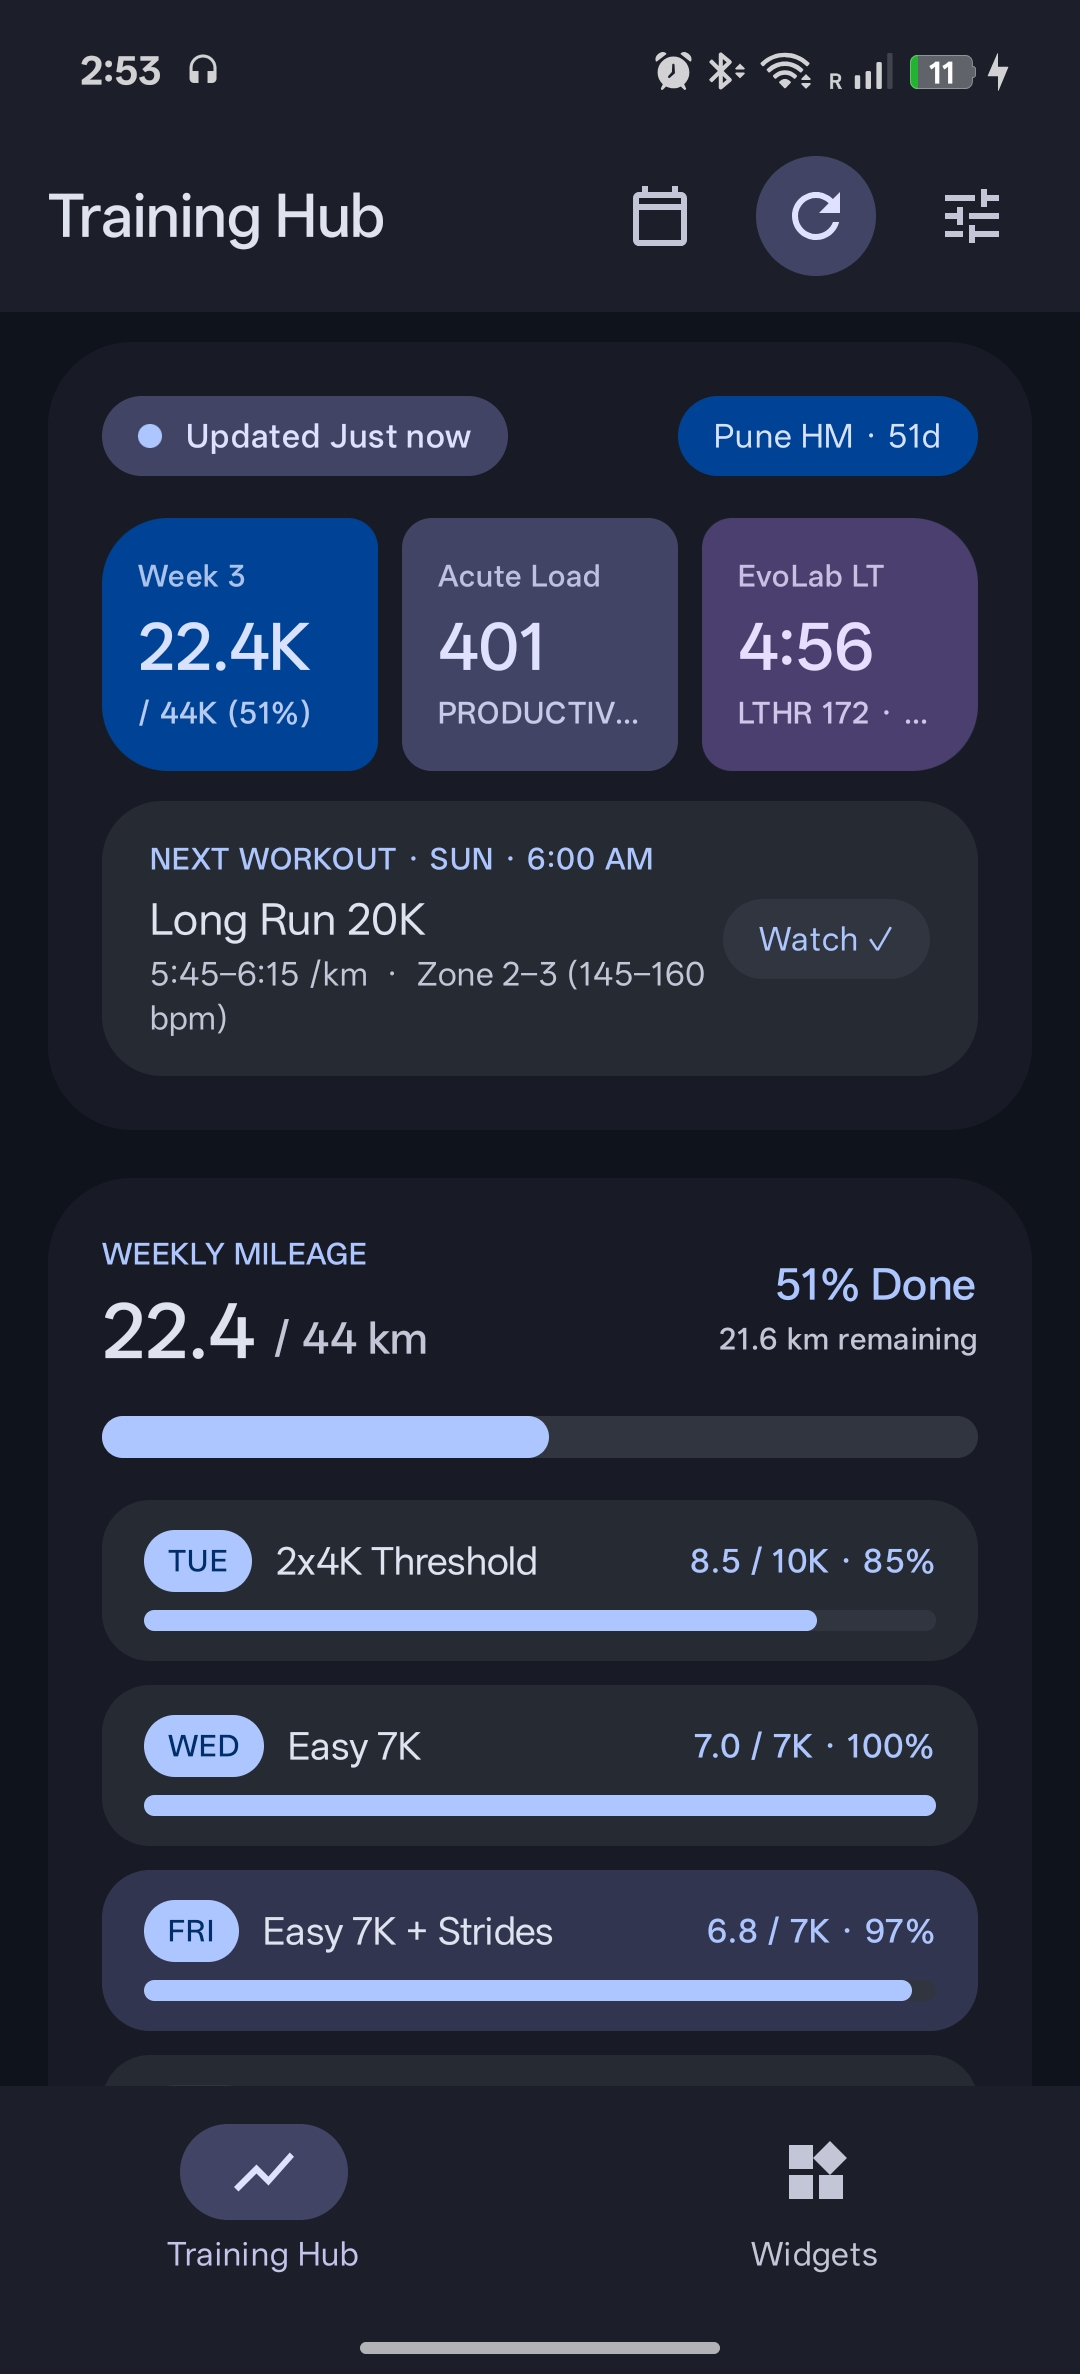
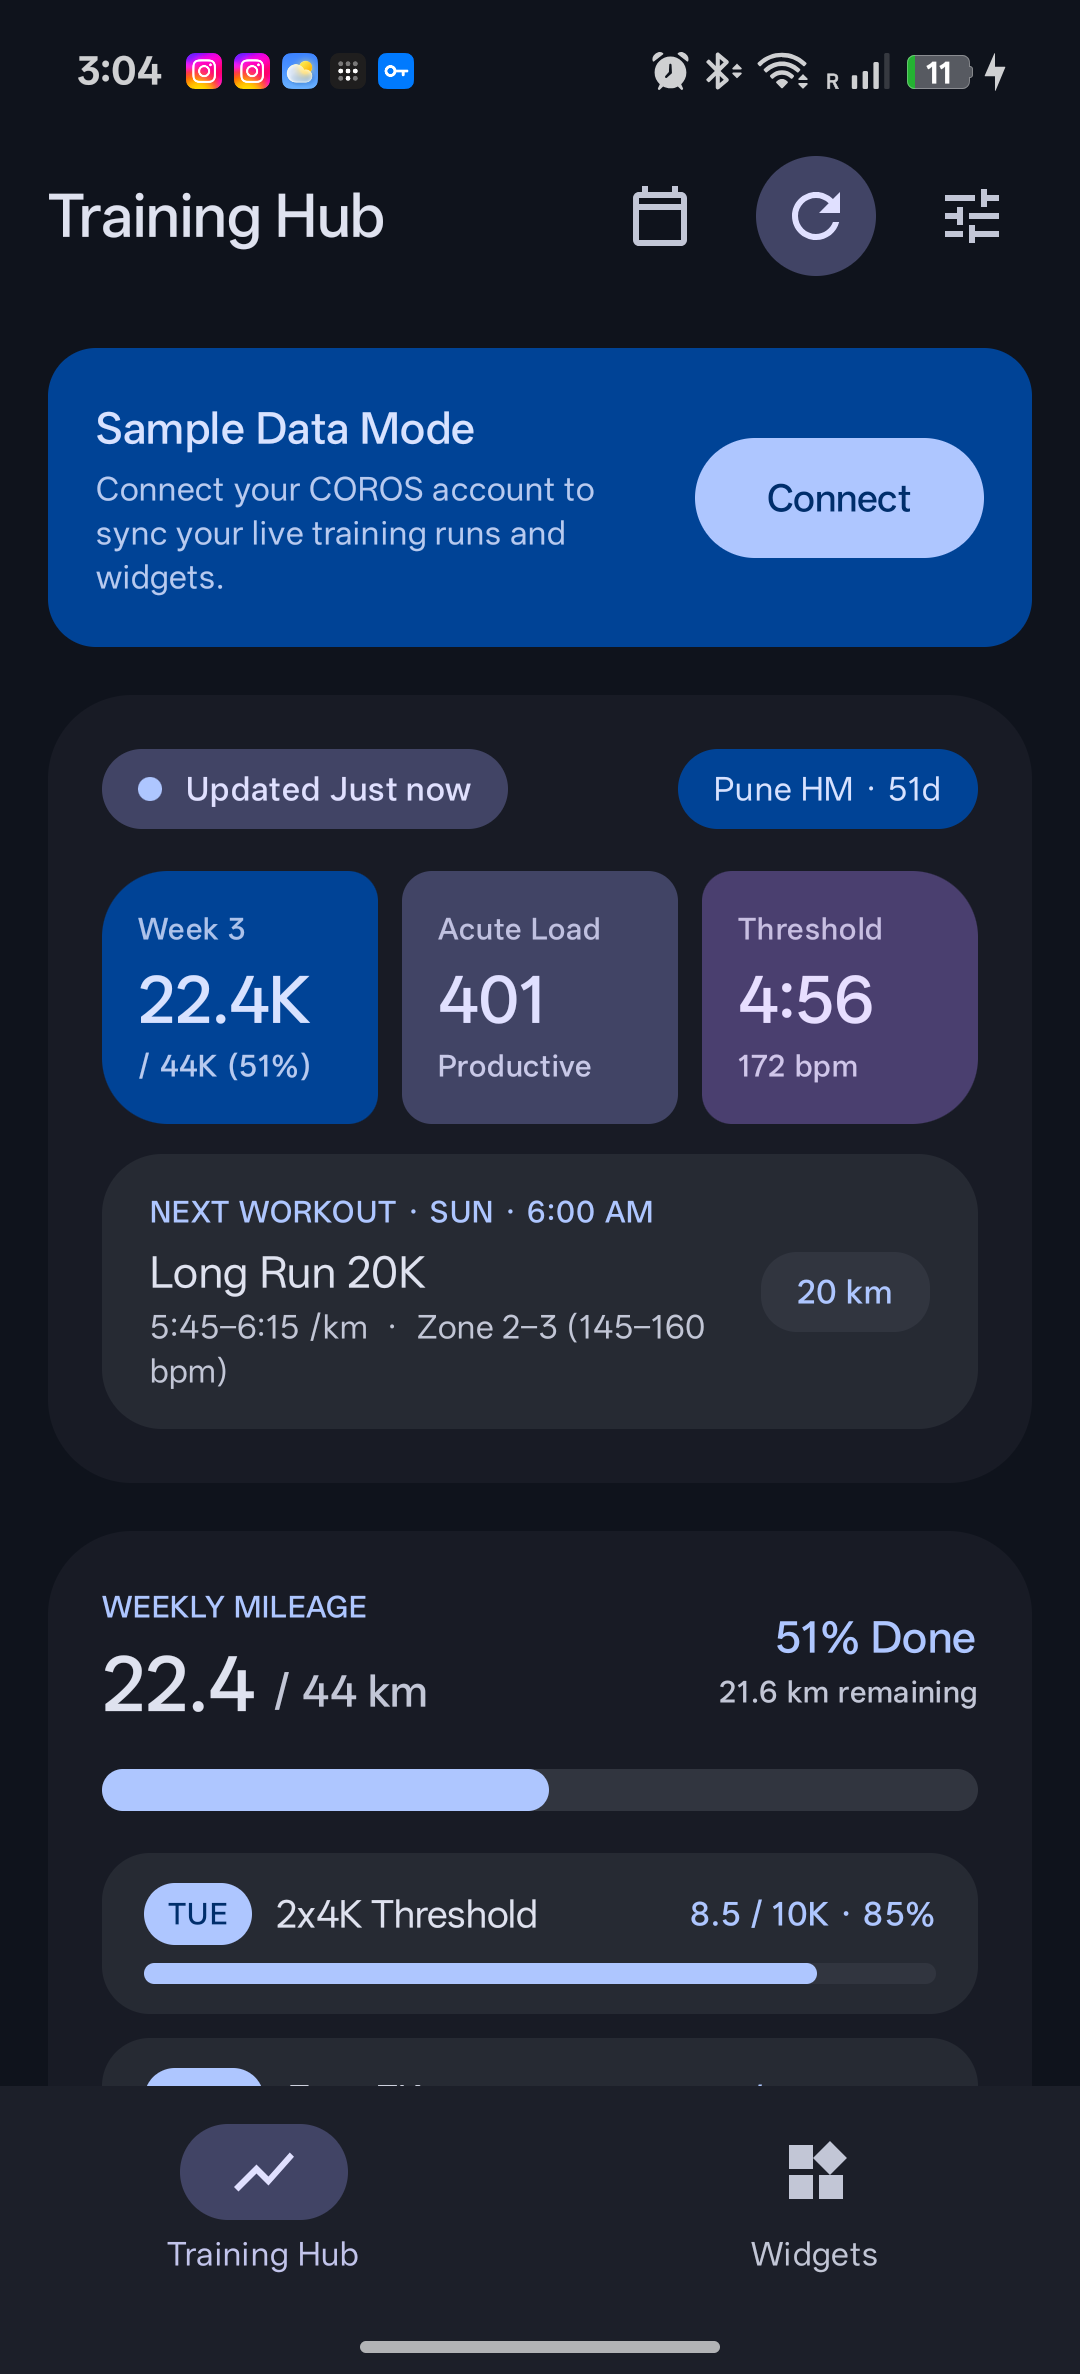
Replace Watch tick with distance pill and fix hero metric clipping

diff --git a/app/src/main/java/io/github/coderang/laps/MainActivity.kt b/app/src/main/java/io/github/coderang/laps/MainActivity.kt
@@ -1409,16 +1409,16 @@ private fun AthleteSummaryHeroCard(payload: LapsPayload, isSyncing: Boolean) {
                     modifier = Modifier.weight(1f),
                     label = "Acute Load",
                     value = "${tl.acuteTl}",
-                    sub = "${tl.statusBadge} · ${tl.readinessScore}%",
+                    sub = tl.statusBadge.lowercase().replaceFirstChar { it.uppercase() },
                     containerColor = MaterialTheme.colorScheme.secondaryContainer,
                     contentColor = MaterialTheme.colorScheme.onSecondaryContainer,
                     shape = RoundedCornerShape(10.dp)
                 )
                 MetricPod(
                     modifier = Modifier.weight(1f),
-                    label = "EvoLab LT",
+                    label = "Threshold",
                     value = rc.currentLtsp.replace(" /km", ""),
-                    sub = "LTHR ${tl.lthr} · RHR ${tl.rhr}",
+                    sub = "${tl.lthr} bpm",
                     containerColor = MaterialTheme.colorScheme.tertiaryContainer,
                     contentColor = MaterialTheme.colorScheme.onTertiaryContainer,
                     shape = RoundedCornerShape(topStart = 10.dp, bottomStart = 10.dp, topEnd = 22.dp, bottomEnd = 22.dp)
@@ -1460,15 +1460,15 @@ private fun AthleteSummaryHeroCard(payload: LapsPayload, isSyncing: Boolean) {
                     }
 
                     Surface(
-                        shape = CircleShape,
+                        shape = RoundedCornerShape(12.dp),
                         color = MaterialTheme.colorScheme.surfaceContainerHighest
                     ) {
                         Text(
-                            text = "Watch ✓",
+                            text = if (nw.targetDistanceKm > 0) "${nw.targetDistanceKm.toInt()} km" else "Planned",
                             modifier = Modifier.padding(horizontal = 12.dp, vertical = 6.dp),
                             style = MaterialTheme.typography.labelMedium,
                             color = MaterialTheme.colorScheme.primary,
-                            fontWeight = FontWeight.SemiBold
+                            fontWeight = FontWeight.Bold
                         )
                     }
                 }
